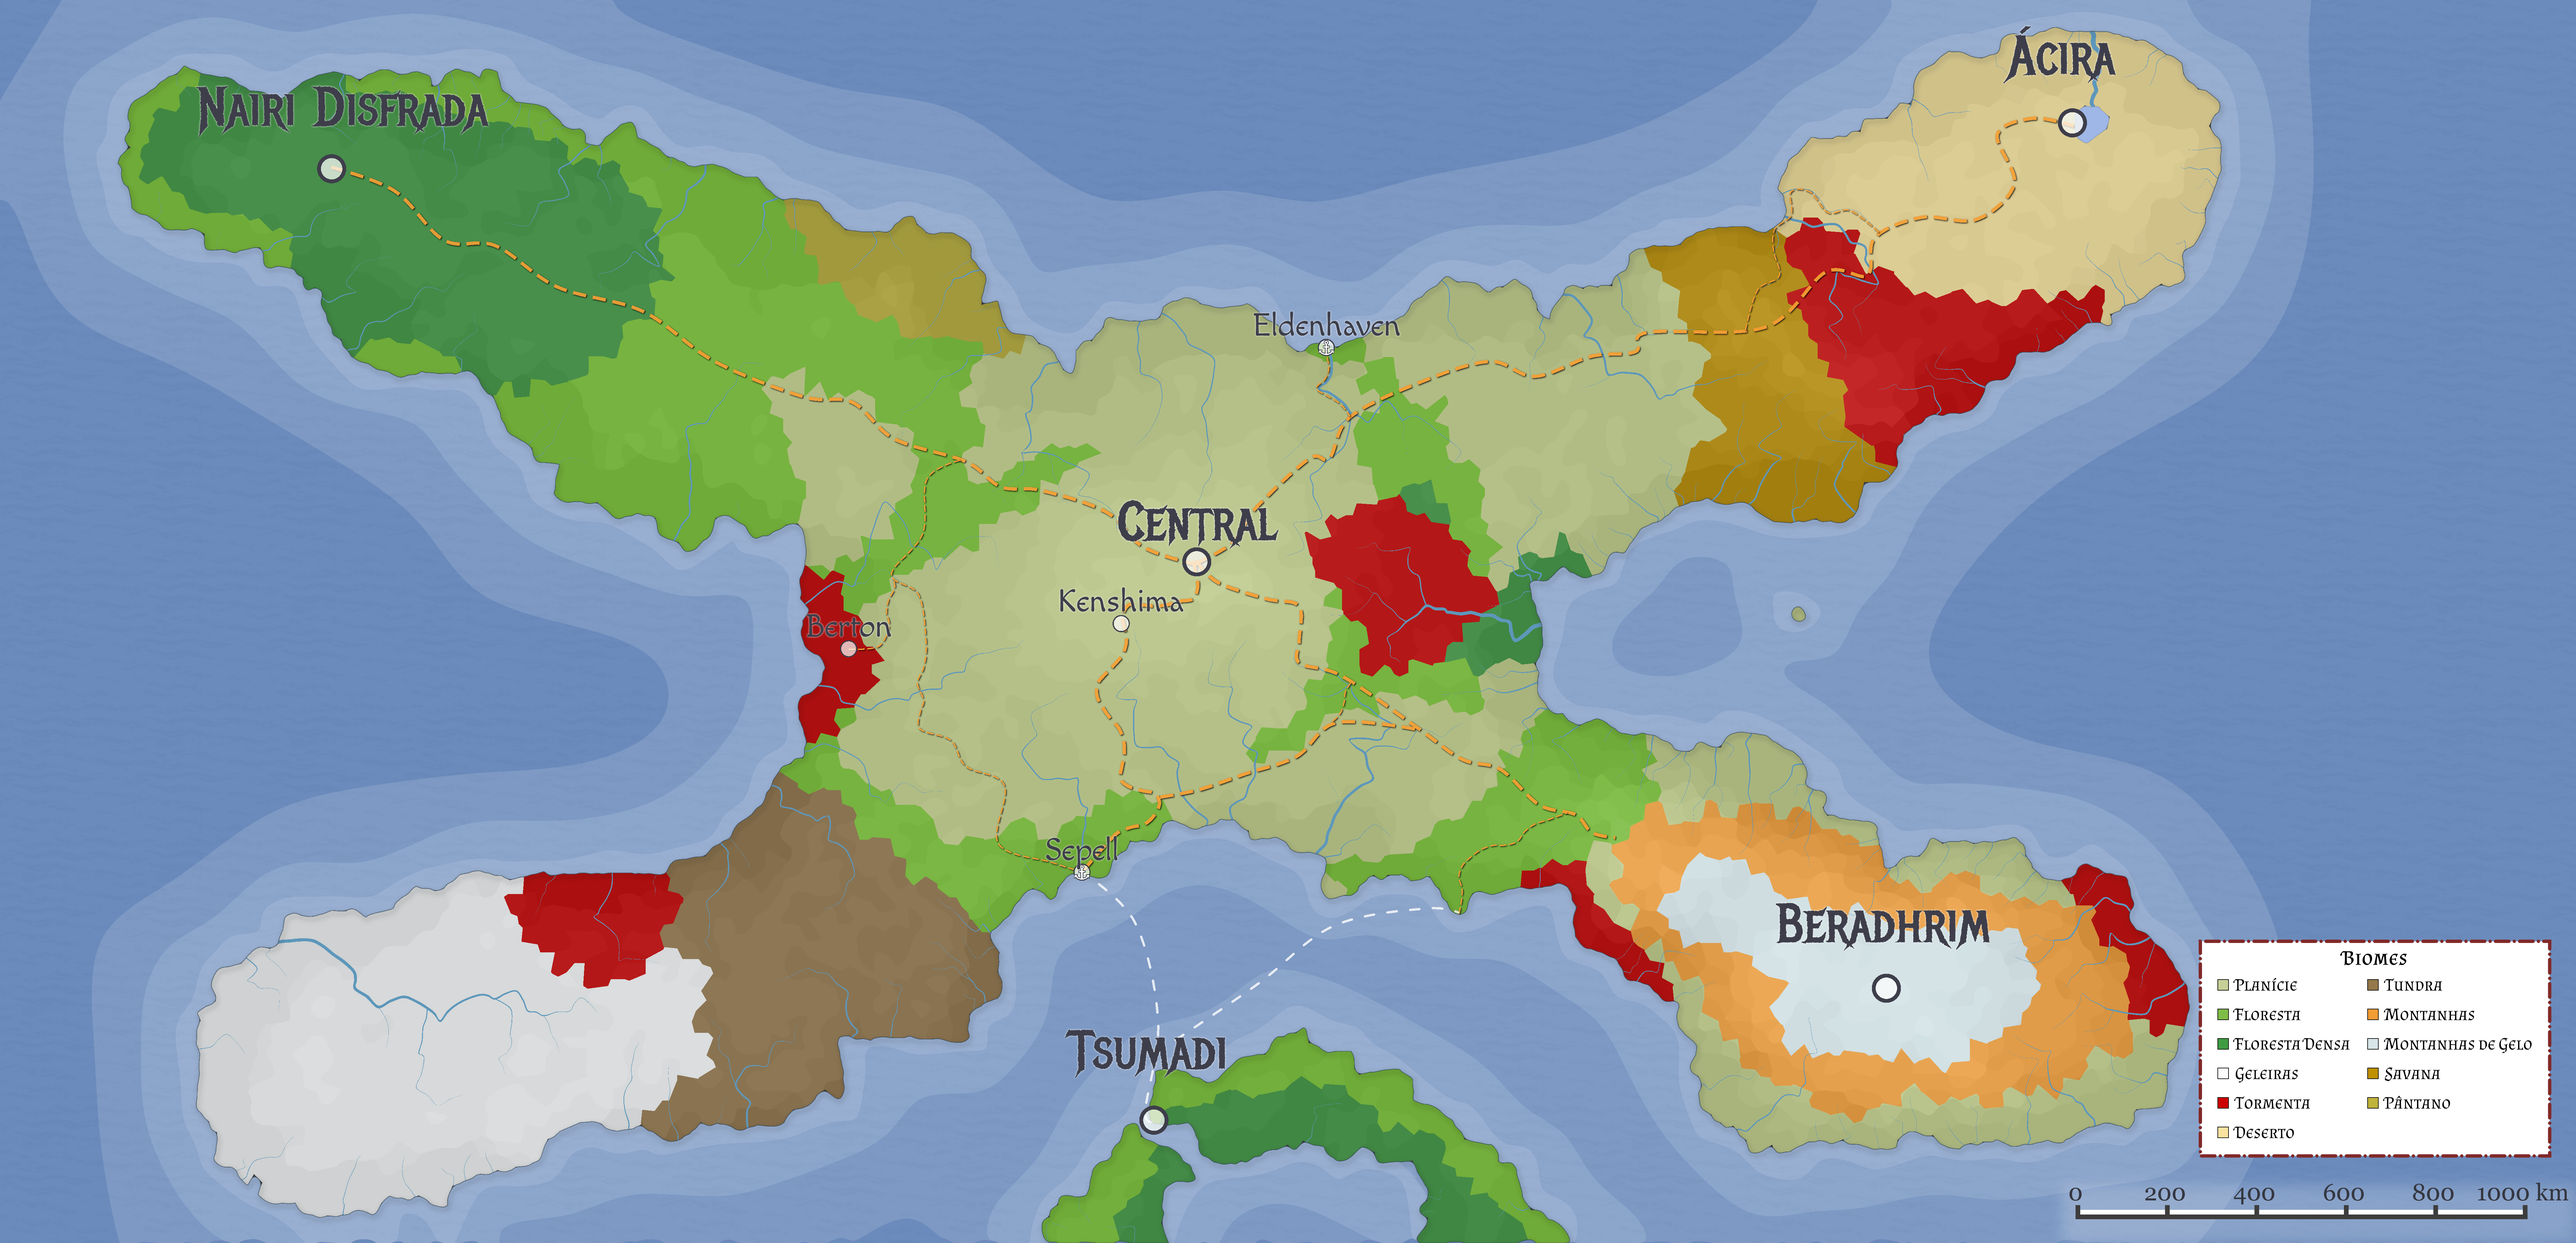
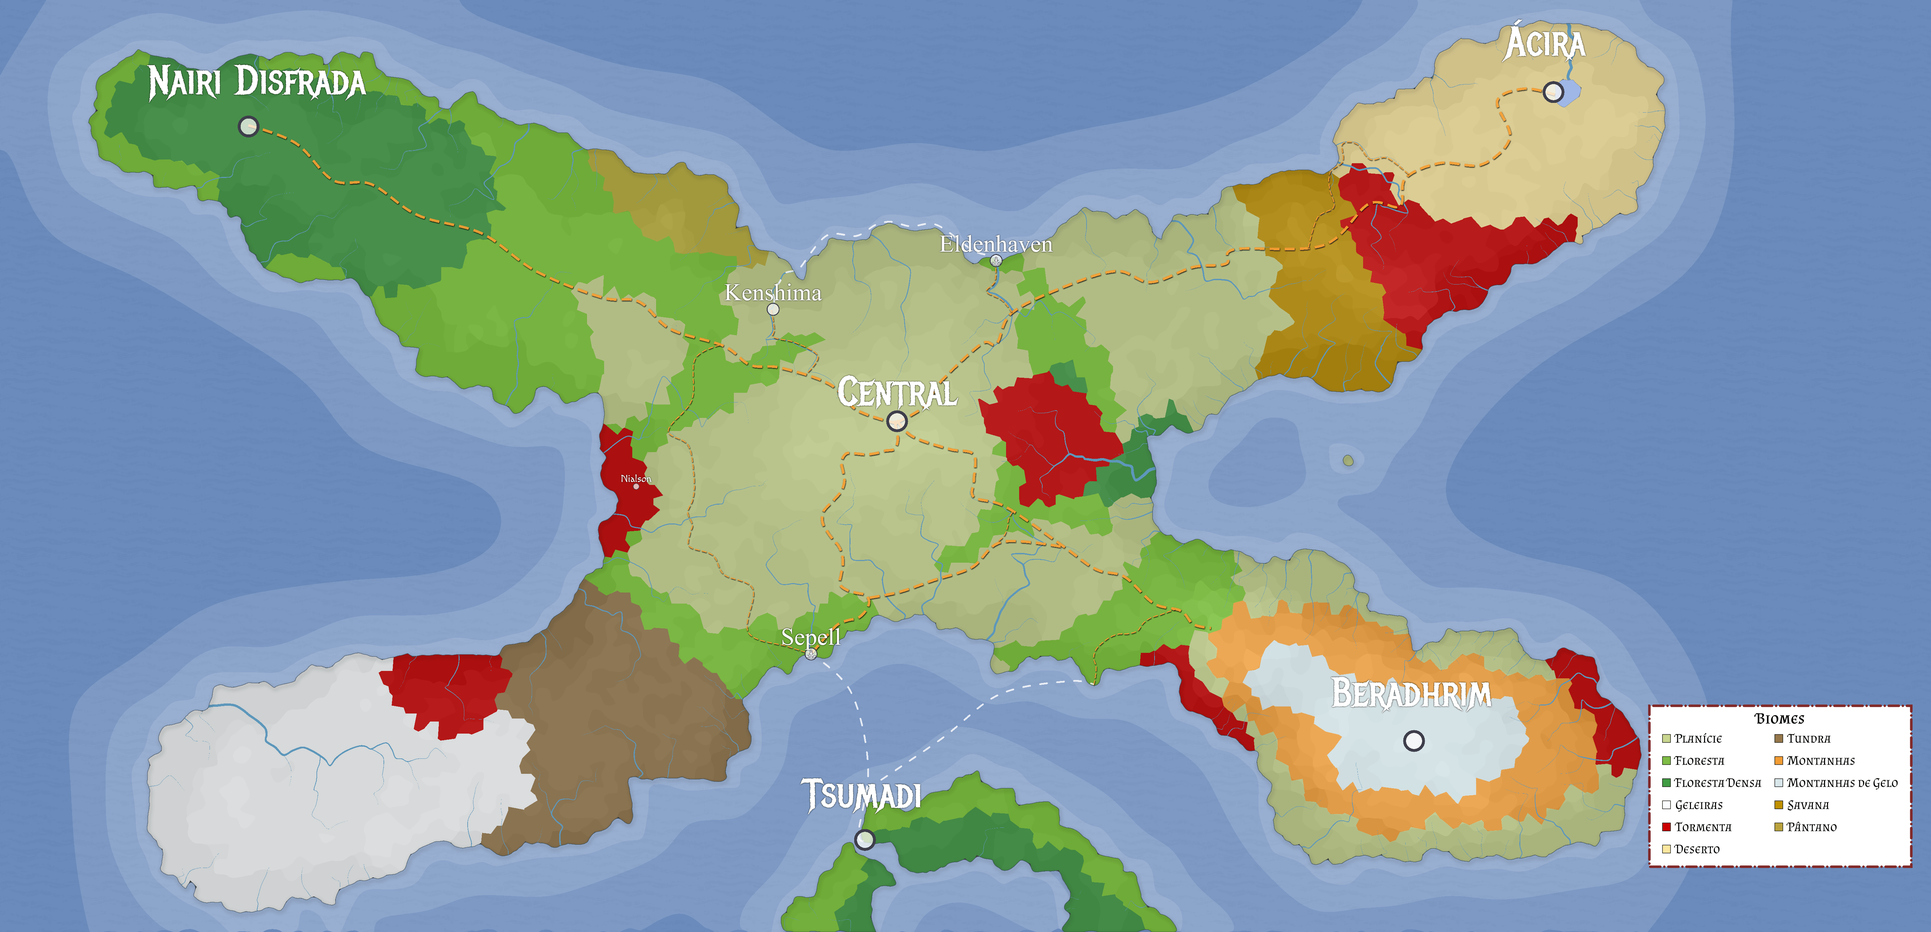
mapa atualizado

diff --git a/docs/index.md b/docs/index.md
@@ -4,7 +4,7 @@ Essa documentação é onde eu, [Nii Miyo](https://github.com/NiiMiyo), organizo
 
 ## **Aviso para os jogadores**
 
-Esse repositório é público porque o GitHub Pages só funciona de graça em repositórios públicos. Então se você joga o RPG comigo essa página é a única que eu posso garantir que não tem spoilers. **Cuidado ao acessar qualquer outra página.**
+Eu uso esse site pra organizar completamente tudo sobre o RPG, então se você joga o RPG comigo **NÃO entre nas outras páginas**. Elas podem ter muitos spoilers de coisas que preparei. **Essa página é a única que nunca vai ter spoiler**.
 
 ## O Mundo de Nyrule
 
@@ -13,6 +13,8 @@ Nyrule é um mundo de alta fantasia medieval, repleto de magia, arcanistas, guer
 ![Mapa geográfico](assets/images/nyrule_map-geo.png)
 ![Grid para viagem. Cada célula do grid são 8h de caminhada](assets/images/nyrule_map-grid.png)
 ![Mapa político](assets/images/nyrule_map-politic.png)
+
+Conforme a história avança o mapa também vai se modificando.
 
 ### Geo-Política
 
